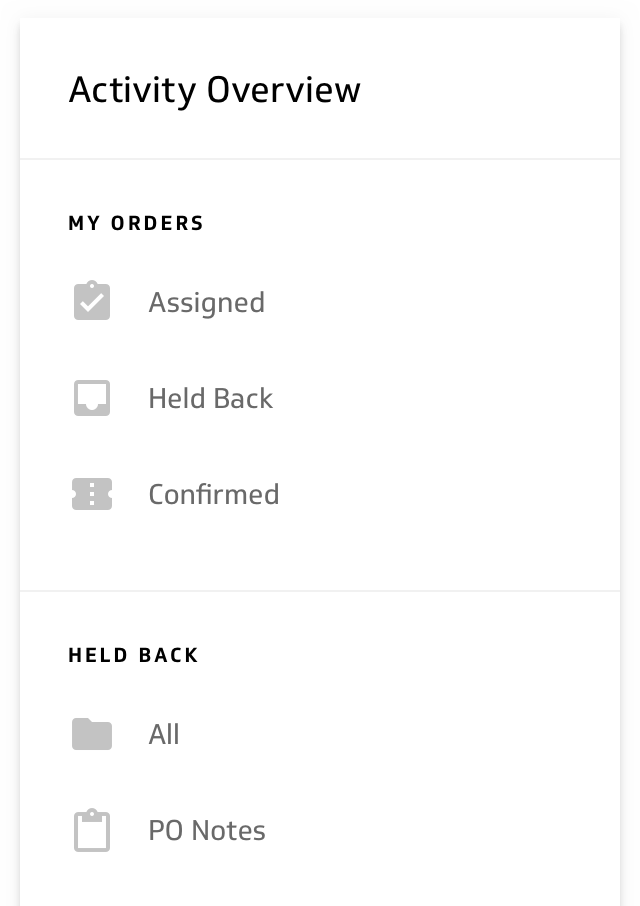
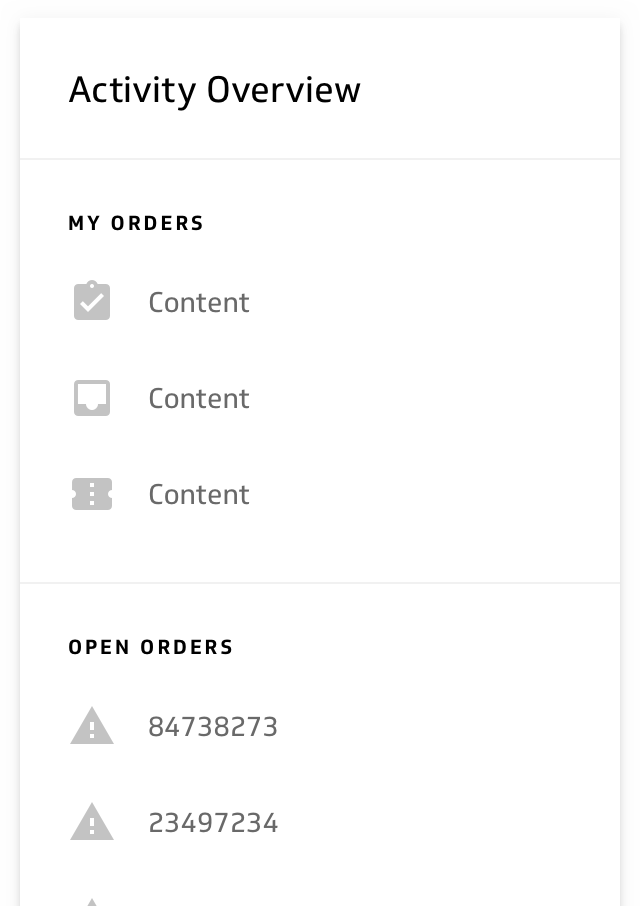
Fix Bug : 162 Sidenav --> "- when click on a different item, that item should be selected instead of being taken to another page - should be able to close a item when click on 'X'"

diff --git a/src/assets/examples/sidenav-basic/sidenav-basic.component.ts b/src/assets/examples/sidenav-basic/sidenav-basic.component.ts
@@ -12,44 +12,58 @@ export class SidenavBasicComponent implements OnInit {
       subs: [
         {
           name: 'Assigned',
-          value: '/documentation/designers',
-          icon: 'assignment_turned_in'
+          value: '/documentation/menu',
+          icon: 'assignment_turned_in',
+          removable: false
         },
         {
           name: 'Held Back',
-          value: '/documentation/developers',
-          icon: 'inbox'
+          value: '/documentation/slider',
+          icon: 'inbox',
+          removable: false
         },
         {
           name: 'Confirmed',
-          value: '/documentation/developers',
-          icon: 'confirmation_number'
+          value: '/documentation/select',
+          icon: 'confirmation_number',
+          removable: false
         }
       ]
     },
     {
-      name: 'held back',
+      name: 'open orders',
       subs: [
         {
-          name: 'All',
-          value: '/documentation/designers',
-          icon: 'folder'
+          name: '84738273',
+          value: '/documentation/colors',
+          icon: 'warning',
+          removable: true
         },
         {
-          name: 'PO Nodtes',
+          name: '23497234',
           value: '/documentation/developers',
-          icon: 'payment'
+          icon: 'warning',
+          removable: true
         },
         {
-          name: 'Side Nav',
+          name: 'AH-398377',
           value: '/documentation/sidenav',
-          icon: 'warning'
+          icon: 'warning',
+          removable: true
         }
       ]
     }
   ];
   constructor() {}
   ngOnInit() {}
+  removeItem(navIndex, targetSub) {
+    let targetNav = this.navList[navIndex]
+
+    this.navList[navIndex].subs = targetNav.subs.filter(sub=>{
+      return sub.name !== targetSub.name
+    })
+
+  }
 }
 
 export const SidenavBasicData = {

diff --git a/src/assets/examples/sidenav-basic/sidenav-basic.component.html b/src/assets/examples/sidenav-basic/sidenav-basic.component.html
@@ -3,7 +3,7 @@
     <div class="viz-sidenav-header">
       Activity Overview
     </div>
-    <div class="viz-sidenav-group" *ngFor="let nav of navList; let i=index">
+    <div class="viz-sidenav-group" *ngFor="let nav of navList; let navIndex=index">
       <div class="viz-sidenav-group-header">
         {{nav.name}}
       </div>
@@ -13,7 +13,7 @@
         #rla="routerLinkActive" [class.active]="rla.isActive">
         <mat-icon class="viz-sidenav-group-item-icon">{{subNav.icon}}</mat-icon>
         {{subNav.name}}
-        <mat-icon class="viz-sidenav-group-item-icon-close">close</mat-icon>
+        <mat-icon *ngIf="subNav.removable" class="viz-sidenav-group-item-icon-close" (click)="removeItem(navIndex, subNav);$event.stopPropagation();">close</mat-icon>
       </div>
     </div>
   </div>
